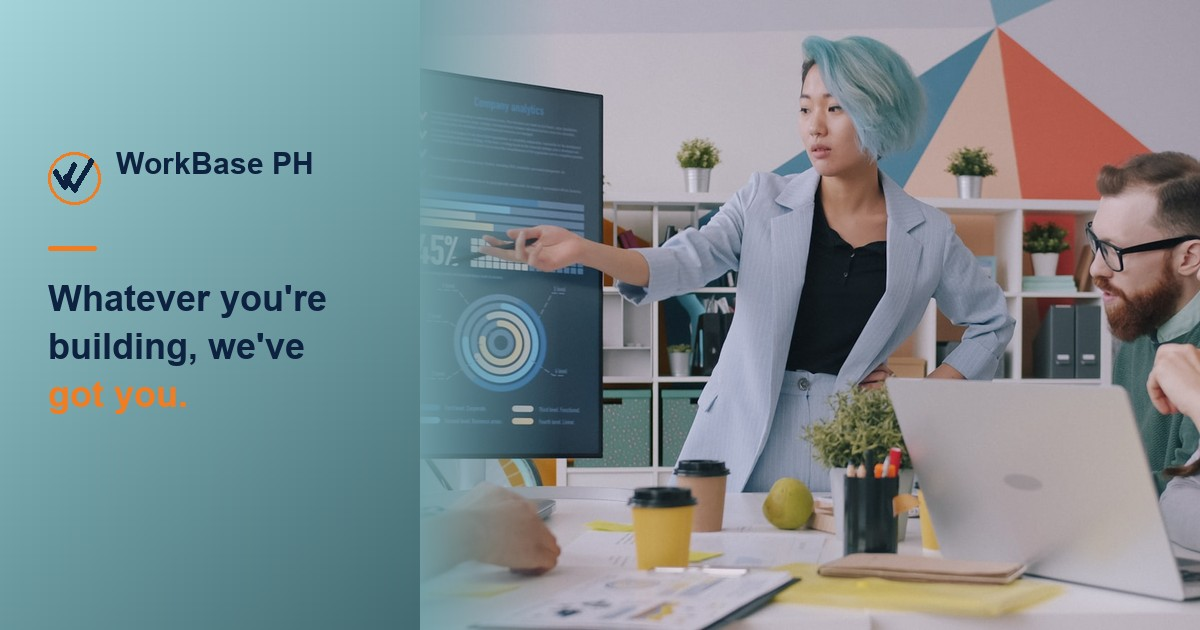
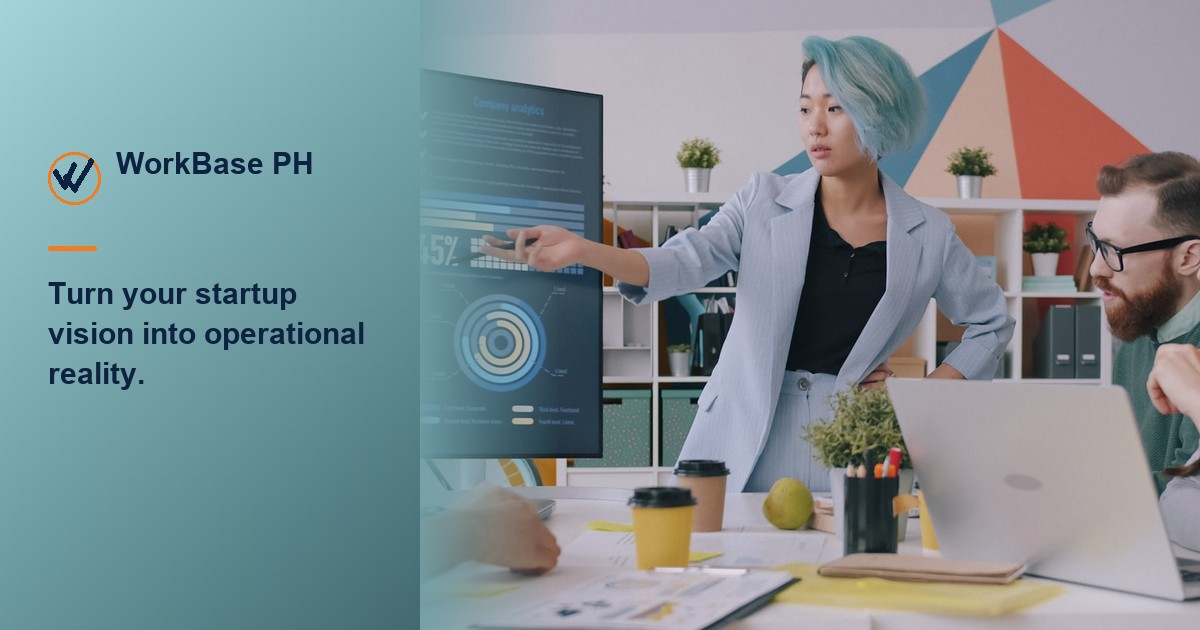
copy(services): give the share card its own headline, distinct from the hero
The og-services-hub.jpg share image and the link title/og:title/twitter:title
now read "Turn your startup vision into operational reality" — replacing the
stale "You Call the Vision, We Run the Mission" title that no longer matched
the image. The on-page hero H1 ("Your blueprint. Our engine.") stays as-is;
the share card is intentionally a separate message from the hero headline.

Changed region(s): [[0.0308, 0.4524, 0.3083, 0.6635]]

diff --git a/public/services.html b/public/services.html
@@ -3,7 +3,7 @@
 <head>
   <meta charset="UTF-8" />
   <meta name="viewport" content="width=device-width, initial-scale=1.0" />
-  <title>You Call the Vision, We Run the Mission | WorkBase PH</title>
+  <title>Turn Your Startup Vision Into Operational Reality | WorkBase PH</title>
   <meta name="description" content="Built for Founders. Explore our services." />
   <link rel="canonical" href="https://www.workbaseph.com/services.html" />
   <meta name="robots" content="index, follow" />
@@ -14,7 +14,7 @@
     "@graph": [
       {
         "@type": "CollectionPage",
-        "name": "You Call the Vision, We Run the Mission",
+        "name": "Turn Your Startup Vision Into Operational Reality",
         "url": "https://www.workbaseph.com/services.html",
         "description": "Hiring, website, growth, and automation, done for you by WorkBase PH's in-house team.",
         "isPartOf": { "@type": "WebSite", "name": "WorkBase PH", "url": "https://www.workbaseph.com" },
@@ -37,12 +37,12 @@
   <meta property="og:type" content="website" />
   <meta property="og:site_name" content="WorkBase PH" />
   <meta property="og:url" content="https://www.workbaseph.com/services.html" />
-  <meta property="og:title" content="You Call the Vision, We Run the Mission | WorkBase PH" />
+  <meta property="og:title" content="Turn Your Startup Vision Into Operational Reality | WorkBase PH" />
   <meta property="og:description" content="Built for Founders. Explore our services." />
   <meta property="og:image" content="https://www.workbaseph.com/images/og-services-hub.jpg" />
   <meta property="og:image:alt" content="WorkBase PH — Whatever you're building, we've got you." />
   <meta name="twitter:card" content="summary_large_image" />
-  <meta name="twitter:title" content="You Call the Vision, We Run the Mission | WorkBase PH" />
+  <meta name="twitter:title" content="Turn Your Startup Vision Into Operational Reality | WorkBase PH" />
   <meta name="twitter:description" content="Built for Founders. Explore our services." />
   <meta name="twitter:image" content="https://www.workbaseph.com/images/og-services-hub.jpg" />
 
@@ -165,8 +165,8 @@
 <section class="hero">
   <div class="hero-inner">
     <div class="hero-eyebrow">Built for Founders</div>
-    <h1>You call the vision. <span>We run the mission.</span></h1>
-    <p class="hero-sub">We take the stuff that isn't yours to do, so you can focus on what actually matters.</p>
+    <h1>Your blueprint. <span>Our engine.</span></h1>
+    <p class="hero-sub">We take the stuff that isn't yours to do, turning your startup concepts into running systems.</p>
   </div>
 </section>
 
